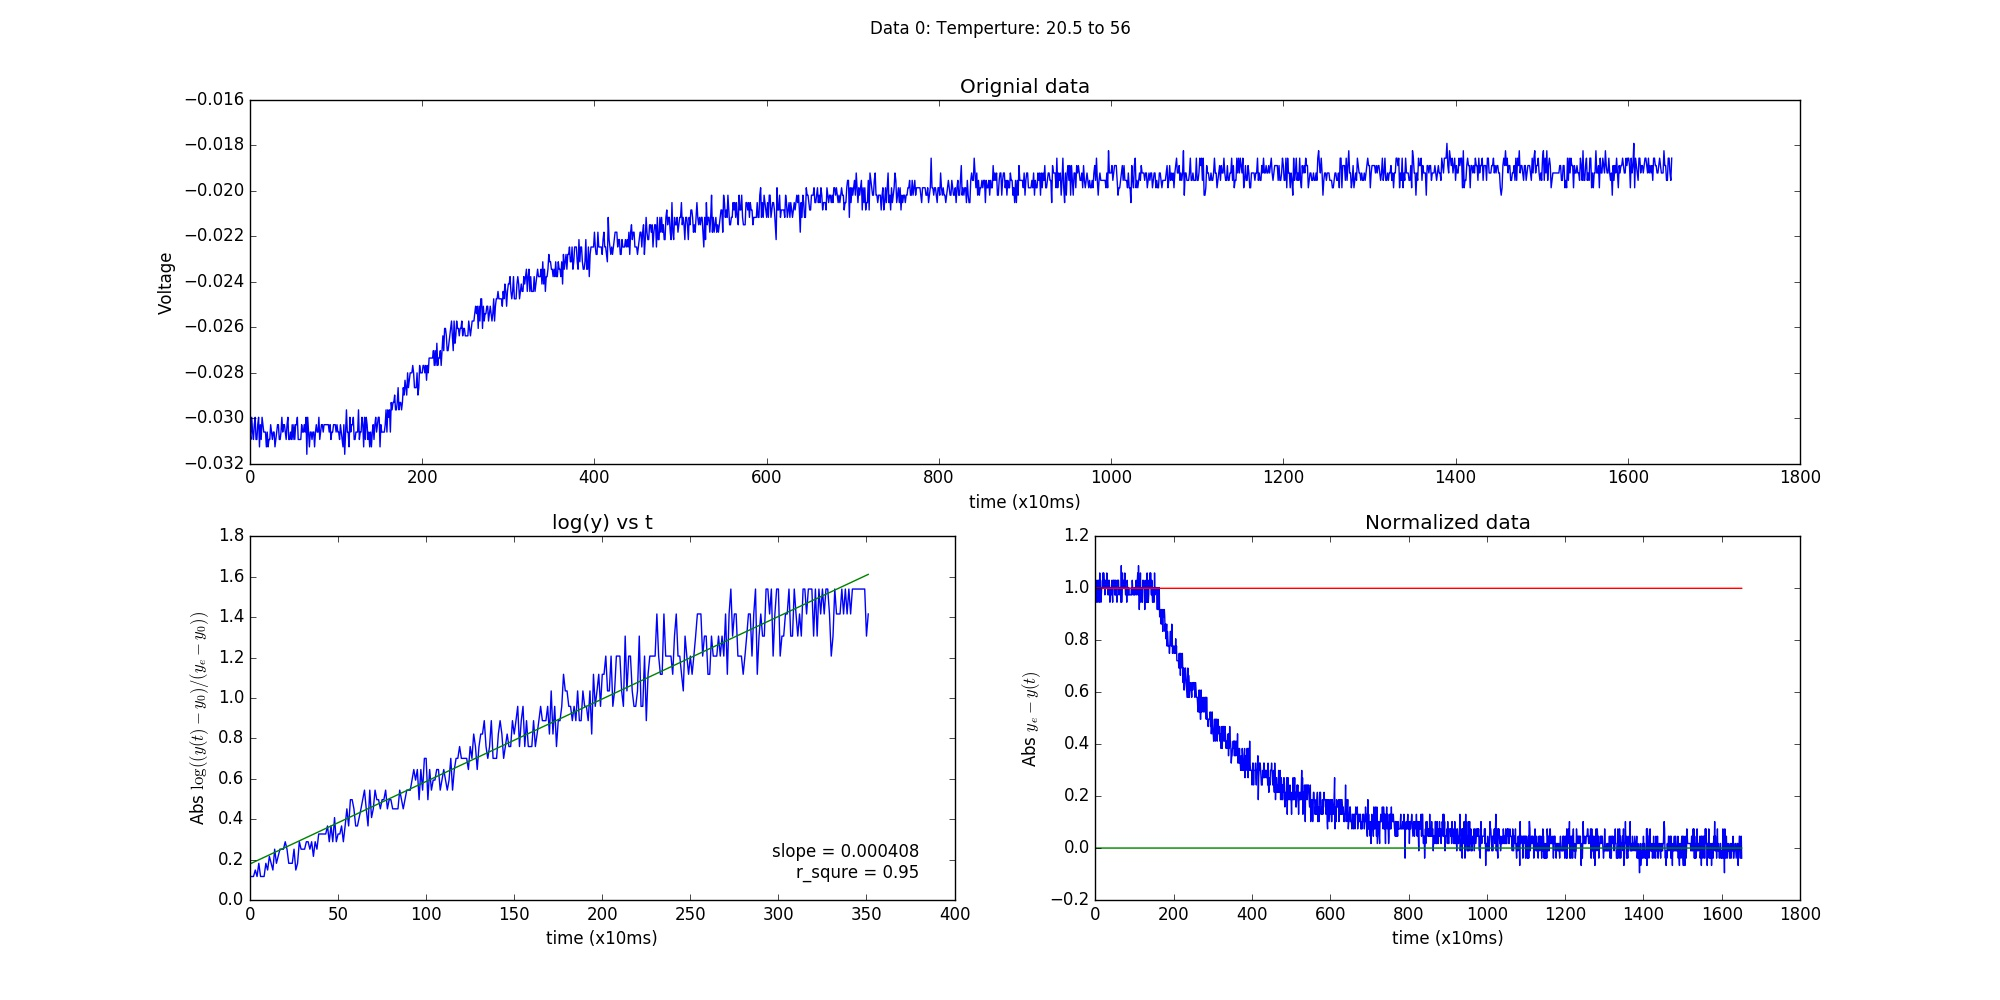
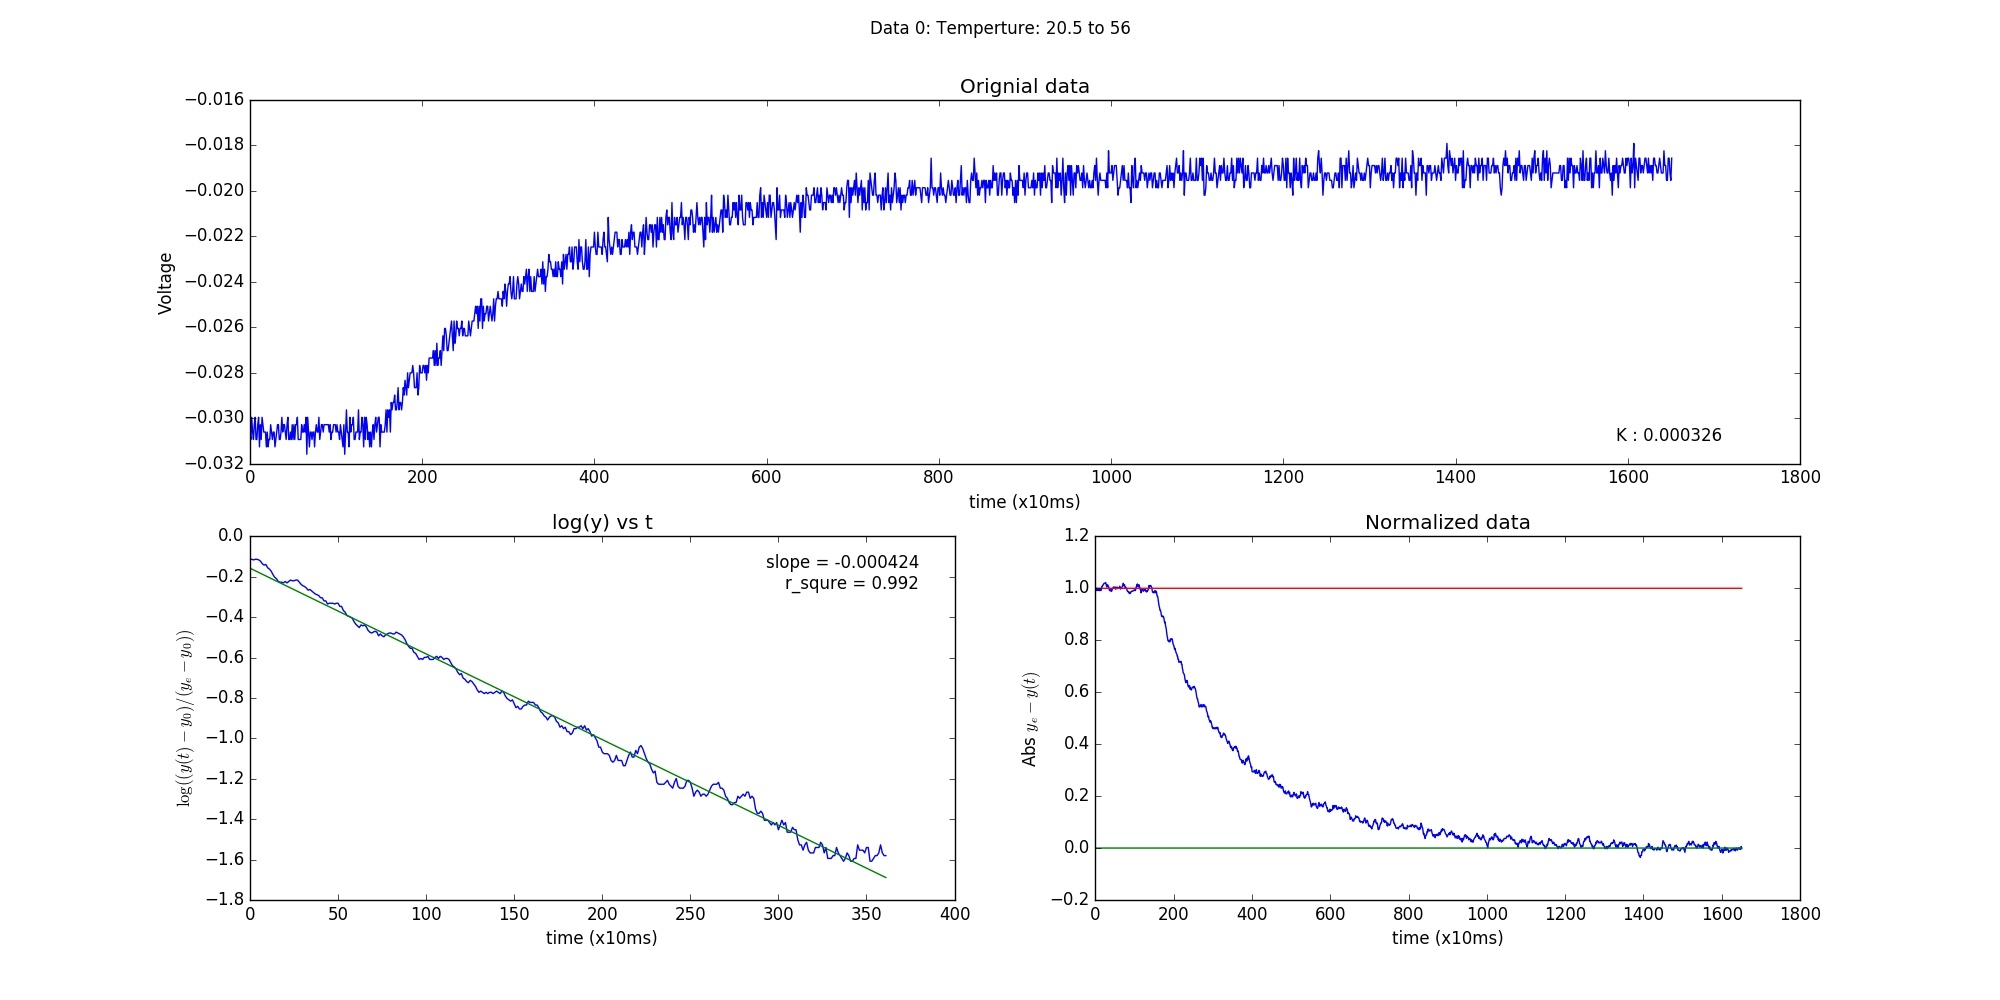
Using sliding windows for better analysis and Add K value

diff --git a/lab05/lab05.py b/lab05/lab05.py
@@ -1,6 +1,8 @@
 import matplotlib.pyplot as plt
 import numpy as np
 from scipy.stats import linregress
+from  scipy.ndimage.filters import uniform_filter
+
 
 temp = [[20.5, 56], [55.5, 21], [21, 76], [76, 22], [21.5, 68], [68, 22]]
 
@@ -12,13 +14,14 @@ for num in range(6):
             datas.append(float(line.split()[2]))
 
     # normalized
-    data_init = np.mean(datas[:100])
-    data_end  = np.mean(datas[-100:])
-    data = (data_end - np.array(datas)) / (data_end - data_init)
+    data = uniform_filter(datas, size=10)
+    data_init = np.mean(data[:100])
+    data_end  = np.mean(data[-100:])
+    data = (data_end - np.array(data)) / (data_end - data_init)
 
     # get raise data
     raise_data = data[(data>0.2) & (data<0.9)]
-    log_data = -np.log(raise_data)
+    log_data = np.log(raise_data)
     slope, intercept, r_value, p_value, std_err = \
         linregress(10 * np.arange(len(raise_data)), log_data)
     text = 'slope = {:.3}\nr_squre = {:.3}'.format(slope, r_value**2)
@@ -30,15 +33,21 @@ for num in range(6):
     plt.title("Orignial data")
     plt.xlabel("time (x10ms)")
     plt.ylabel("Voltage")
+    plt.text(.95, .05, "K : {:.3}".format(np.abs((data_init - data_end) / 
+                                                 (temp[num][0] -temp[num][1]))),
+             horizontalalignment='right',
+             verticalalignment='bottom',
+             transform=plt.gca().transAxes)
+
     plt.subplot(223)
     plt.plot(log_data)
     plt.plot(np.arange(len(raise_data)) * slope * 10 + intercept)
     plt.title("log(y) vs t")
     plt.xlabel("time (x10ms)")
-    plt.ylabel(r"Abs $\log((y(t)-y_0)/(y_e-y_0))$")
-    plt.text(.95, .05, text,
+    plt.ylabel(r"$\log((y(t)-y_0)/(y_e-y_0))$")
+    plt.text(.95, .95, text,
              horizontalalignment='right',
-             verticalalignment='bottom',
+             verticalalignment='top',
              transform=plt.gca().transAxes)
 
     plt.subplot(224)
@@ -51,6 +60,6 @@ for num in range(6):
 
     # save it or plot it
     plt.suptitle("Data {}: Temperture: {} to {}".format(num, *temp[num]))
-    # plt.savefig("log5_data_" + str(num) + ".jpg")
-    # plt.clf()
-    plt.show()
+    plt.savefig("log5_data_" + str(num) + ".jpg")
+    plt.clf()
+    # plt.show()
